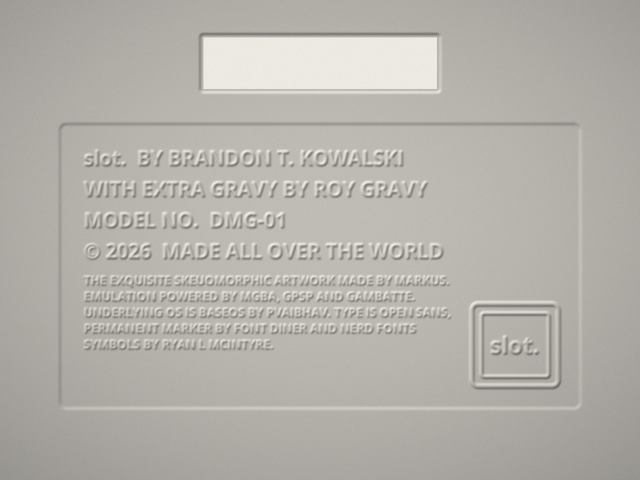
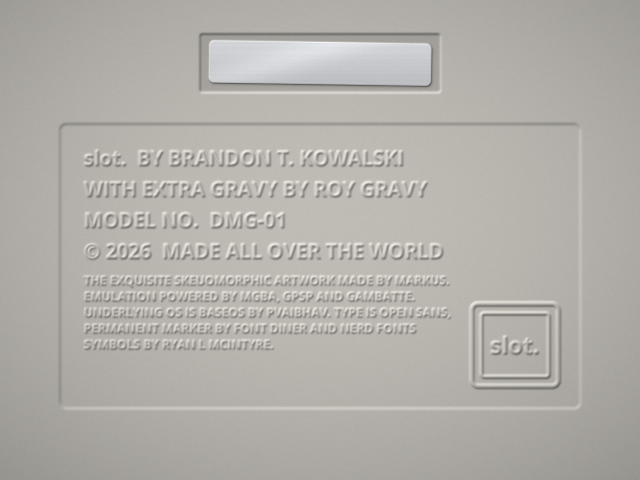
About: a silver serial sticker, stuck on a little crooked
The serial label is now a brushed silver sticker with round corners, smaller than its recess,
sitting proud of the floor but below the plastic and casting a soft shadow. It is tilted
slightly, and the serial is printed with the same tilt.

Claude-Session: https://claude.ai/code/session_01HspWrybW4guRb45yc1TcJq

Changed region(s): [[0.3125, 0.0625, 0.6875, 0.1875]]

diff --git a/tools/about_art.py b/tools/about_art.py
@@ -16,6 +16,10 @@ W, H, SS = 640, 480, 3
 # The paper serial label, in screen pixels; crates/slot-ui/src/about.rs prints on it.
 LABEL = (200, 34, 440, 92)
 PANEL = (60, 124, 580, 408)
+# The silver serial sticker inside the recess: smaller, round cornered, stuck on a little
+# crooked. crates/slot-ui/src/about.rs prints the serial with the same tilt.
+STICKER_INSET = (9, 8)
+STICKER_DEG = -0.9
 
 BIG = [
     "slot.  BY BRANDON T. KOWALSKI",
@@ -55,9 +59,34 @@ def sc(box):
     return tuple(v * SS for v in box)
 
 
+def sticker_mask():
+    x0, y0, x1, y1 = LABEL
+    ix, iy = STICKER_INSET
+    im = Image.new("L", (W * SS, H * SS), 0)
+    ImageDraw.Draw(im).rounded_rectangle(sc((x0 + ix, y0 + iy, x1 - ix, y1 - iy)),
+                                         radius=5 * SS, fill=255)
+    cx, cy = (x0 + x1) / 2 * SS, (y0 + y1) / 2 * SS
+    im = im.rotate(STICKER_DEG, resample=Image.BICUBIC, center=(cx, cy))
+    return np.asarray(im, np.float32) / 255
+
+
+def metal(yy, xx):
+    """Brushed silver foil: a soft vertical falloff, a diagonal sheen and fine grain."""
+    x0, y0, x1, y1 = sc(LABEL)
+    v = (yy - y0) / (y1 - y0)
+    u = (xx - x0) / (x1 - x0)
+    base = 196 + 22 * (1 - v) - 10 * v
+    sheen = 18 * np.exp(-(((u * 0.8 + v * 0.6) - 0.55) / 0.16) ** 2)
+    rng = np.random.default_rng(11)
+    grain = rng.normal(0, 1, (yy.shape[0], 1)) * 2.2 + rng.normal(0, 1, yy.shape) * 1.2
+    g = base + sheen + grain
+    return np.dstack([g * 0.985, g * 0.995, g * 1.01])
+
+
 def render(plastic):
     panel = mask(lambda d: d.rounded_rectangle(sc(PANEL), radius=6 * SS, fill=255))
-    label = mask(lambda d: d.rounded_rectangle(sc(LABEL), radius=3 * SS, fill=255))
+    label = mask(lambda d: d.rounded_rectangle(sc(LABEL), radius=2 * SS, fill=255))
+    sticker = sticker_mask()
 
     def wrap(text, f, width):
         lines, line = [], ""
@@ -90,7 +119,9 @@ def render(plastic):
                fill=255, anchor="mm")
 
     text = mask(letters)
-    height = -blur(panel, 1.2 * SS) - 1.4 * blur(label, 1.0 * SS) + 1.3 * blur(text, 0.9 * SS)
+    # The sticker sits on the recess floor, proud of it but not flush with the plastic.
+    height = (-blur(panel, 1.2 * SS) - 1.4 * blur(label, 1.0 * SS)
+              + 1.3 * blur(text, 0.9 * SS) + 0.9 * blur(sticker, 0.5 * SS))
     gy, gx = np.gradient(height)
     n = np.dstack([-gx * 2.6, -gy * 2.6, np.ones_like(height)])
     n /= np.linalg.norm(n, axis=2, keepdims=True)
@@ -102,9 +133,12 @@ def render(plastic):
     vignette = 1.04 - 0.10 * (((xx - W * SS / 2) / (W * SS / 2)) ** 2
                               + ((yy - H * SS * 0.45) / (H * SS / 2)) ** 2)
     c = plastic[None, None, :] * (shade * vignette)[..., None]
-    lx0, ly0, lx1, ly1 = sc(LABEL)
-    paper = (xx > lx0 + 3 * SS) & (xx < lx1 - 3 * SS) & (yy > ly0 + 3 * SS) & (yy < ly1 - 3 * SS)
-    c[paper] = np.array([236, 234, 226], np.float32)
+    # The recess floor sits in shadow, deepest under the sticker's lower right edge.
+    floor = blur(label, 0.4 * SS)
+    cast = blur(np.roll(np.roll(sticker, int(1.5 * SS), 0), int(1.0 * SS), 1), 1.2 * SS)
+    c *= (1 - 0.10 * floor - 0.28 * cast * (1 - sticker))[..., None]
+    foil = metal(yy, xx) * np.clip(0.55 + 0.45 * shade, 0.6, 1.15)[..., None]
+    c = c * (1 - sticker[..., None]) + foil * sticker[..., None]
     c = c.reshape(H, SS, W, SS, 3).mean((1, 3))
     c += np.random.default_rng(3).normal(0, 1.0, (H, W, 1))
     return Image.fromarray(np.clip(c, 0, 255).astype(np.uint8), "RGB")

diff --git a/crates/slot-ui/src/about.rs b/crates/slot-ui/src/about.rs
@@ -11,8 +11,11 @@ const LIGHT_PNG: &[u8] = include_bytes!("../../../assets/about_light.png");
 
 /// The paper label, as tools/about_art.py draws it.
 const LABEL: (u32, u32, u32, u32) = (200, 34, 440, 92);
-const SERIAL_PX: f32 = 30.0;
-const INK: [u8; 3] = [0x1e, 0x1e, 0x20];
+const SERIAL_PX: f32 = 28.0;
+const INK: [u8; 3] = [0x1c, 0x1c, 0x1e];
+/// The sticker's tilt, as tools/about_art.py sticks it on (degrees, PIL's sense:
+/// positive turns anticlockwise).
+const STICKER_DEG: f32 = -0.9;
 
 /// The whole About screen for a theme, with `serial` printed on the label.
 pub fn about_face(light: bool, serial: &str) -> UndoFace {
@@ -22,13 +25,31 @@ pub fn about_face(light: bool, serial: &str) -> UndoFace {
     if let Some(font) = text::label_font() {
         let (lx, ly, lx1, ly1) = LABEL;
         let (lw, lh) = (lx1 - lx, ly1 - ly);
-        let layout = text::fit(font, serial, lw as f32 - 16.0, 1, SERIAL_PX, 14.0);
+        let layout = text::fit(font, serial, lw as f32 - 32.0, 1, SERIAL_PX, 14.0);
         let mut label = vec![0u8; (lw * lh * 4) as usize];
         text::draw_centred(&mut label, lw, lh, &layout, INK);
+        // Print it turned with the sticker: map each screen pixel back into the flat label.
+        let (sin, cos) = STICKER_DEG.to_radians().sin_cos();
+        let (cx, cy) = (lw as f32 / 2.0, lh as f32 / 2.0);
+        let alpha_at = |x: i32, y: i32| -> f32 {
+            if x < 0 || y < 0 || x >= lw as i32 || y >= lh as i32 {
+                return 0.0;
+            }
+            label[((y as u32 * lw + x as u32) * 4 + 3) as usize] as f32
+        };
         for y in 0..lh {
             for x in 0..lw {
-                let s = ((y * lw + x) * 4) as usize;
-                let a = label[s + 3] as u32;
+                let (dx, dy) = (x as f32 + 0.5 - cx, y as f32 + 0.5 - cy);
+                let sx = cos * dx - sin * dy + cx - 0.5;
+                let sy = sin * dx + cos * dy + cy - 0.5;
+                let (fx, fy) = (sx.floor(), sy.floor());
+                let (tx, ty) = (sx - fx, sy - fy);
+                let (ix, iy) = (fx as i32, fy as i32);
+                let a = alpha_at(ix, iy) * (1.0 - tx) * (1.0 - ty)
+                    + alpha_at(ix + 1, iy) * tx * (1.0 - ty)
+                    + alpha_at(ix, iy + 1) * (1.0 - tx) * ty
+                    + alpha_at(ix + 1, iy + 1) * tx * ty;
+                let a = (a * 0.92).round() as u32;
                 if a == 0 || x + lx >= w || y + ly >= h {
                     continue;
                 }
